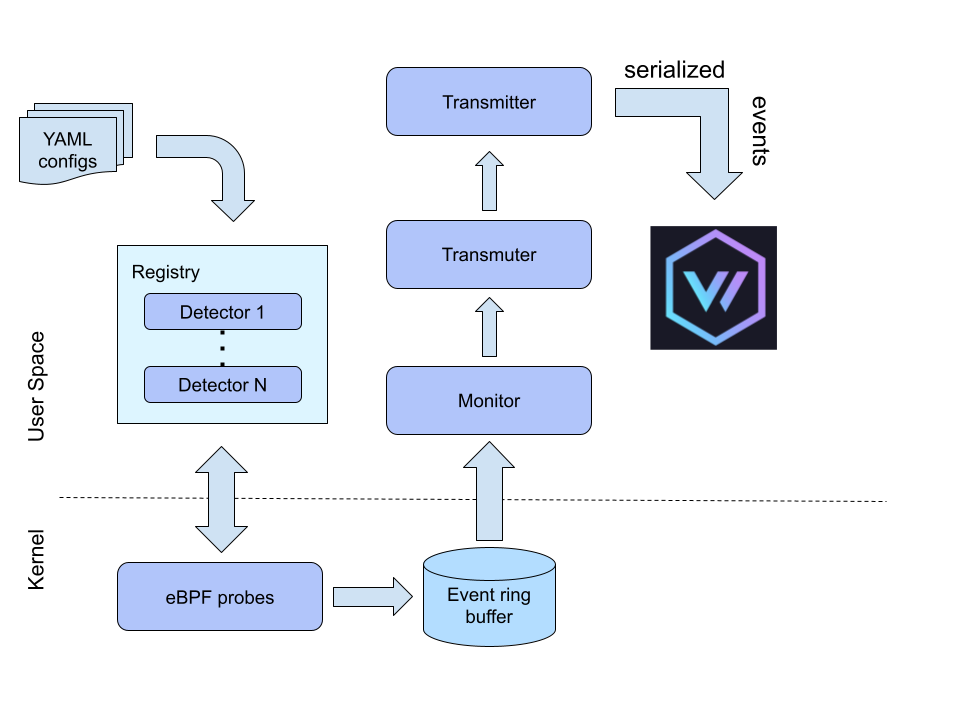
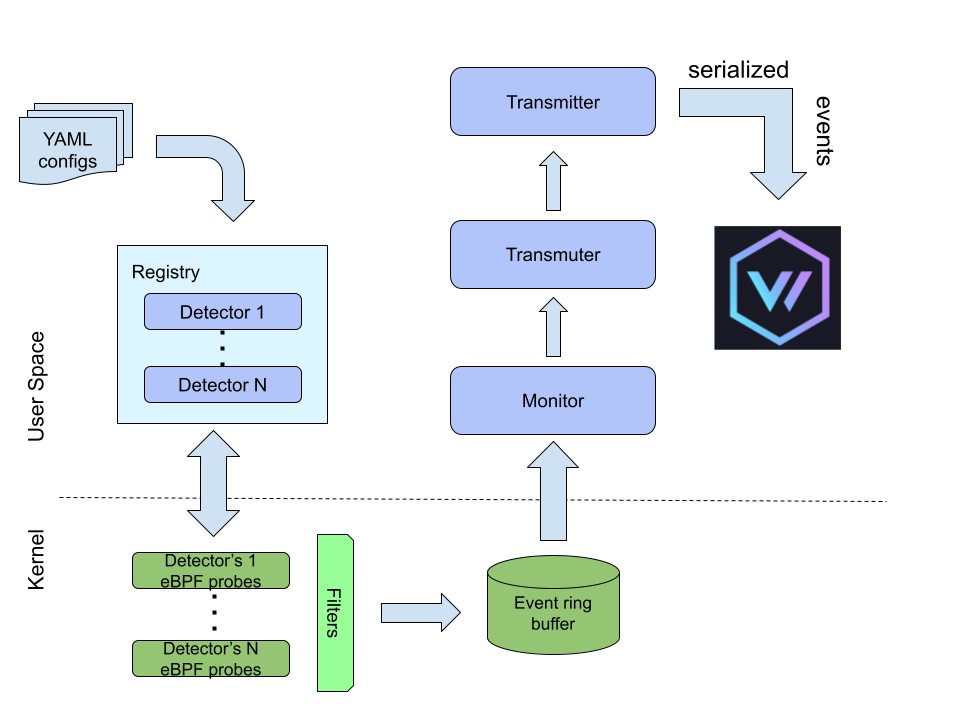
docs: add documentation for process filtering

diff --git a/docs/detectors/procmon.md b/docs/detectors/procmon.md
@@ -6,11 +6,35 @@ can produce events about when the process starts and ends.
 
 ### Config
 
+Procmon detector supports allow/deny list for events filtereing. Let's look at the config example.
+
 ```yaml
-expose-events: false
+expose-events: true
+process_allow_list:
+  uid:
+    - 0
+  euid:
+    - 0
+  auid:
+    - 1000
+  binary:
+    name:
+      - tail
+      - curl
+    prefix:
+      - /usr/local/bin/
+    path:
+      - /usr/bin/uname
 ```
 
 `expose-events` sends events to user-mode. False by default.
+If you want to send events you should set expose-events to true no matter using filters or not.
+Filter list section is start by defining allow list `process_allow_list`:
+events that DO satisfy the following conditions will be send to user space,
+or deny list `process_deny_list`: events that do NOT satisfiy the following conditions will be
+send to user space. Next level of hierarchy provide the types of conditions: `uid`, `eud`, `auid`, `binary`.
+This types of conditions combined with logical "AND". Values are represented as arrays, are combined with
+logical "OR". `name`, `prefix`, `path` in the `binary` section are combined with logical "OR" too.
 
 
 ### Event

diff --git a/docs/design.md b/docs/design.md
@@ -18,6 +18,11 @@ in maps. Some parts of the detectors can be reused across different detectors.
 Detectors submit events to user space using ring buffer. Detectors use YAML
 config files for initialization.
 
+### Filters
+
+Filters are applied to eBPF events in order to decide will be event exposed to user space or not.
+A detailed description of the filtering can be found directly in the description of the corresponding detector.
+
 ### Monitor
 
 Monitor observes new low level events (messages) and extracts them from ring buffer.

diff --git a/README.md b/README.md
@@ -35,6 +35,22 @@ Release tarball will be located at `target/bombini.tar.gz`
 
 ## Run
 
+First, check if LSM BPF is enabled on your system.
+
+```
+cat /sys/kernel/security/lsm
+```
+
+if there is `bpf` in the output, than BPF LSM is enabled.
+Otherwise, you have to enable it adding this line to `/etc/default/grub`:
+
+```
+GRUB_CMDLINE_LINUX="lsm=[previos lsm modules],bpf"
+```
+
+Update grub and reboot the system.
+
+
 You can run bombini this way:
 
 ```bash
